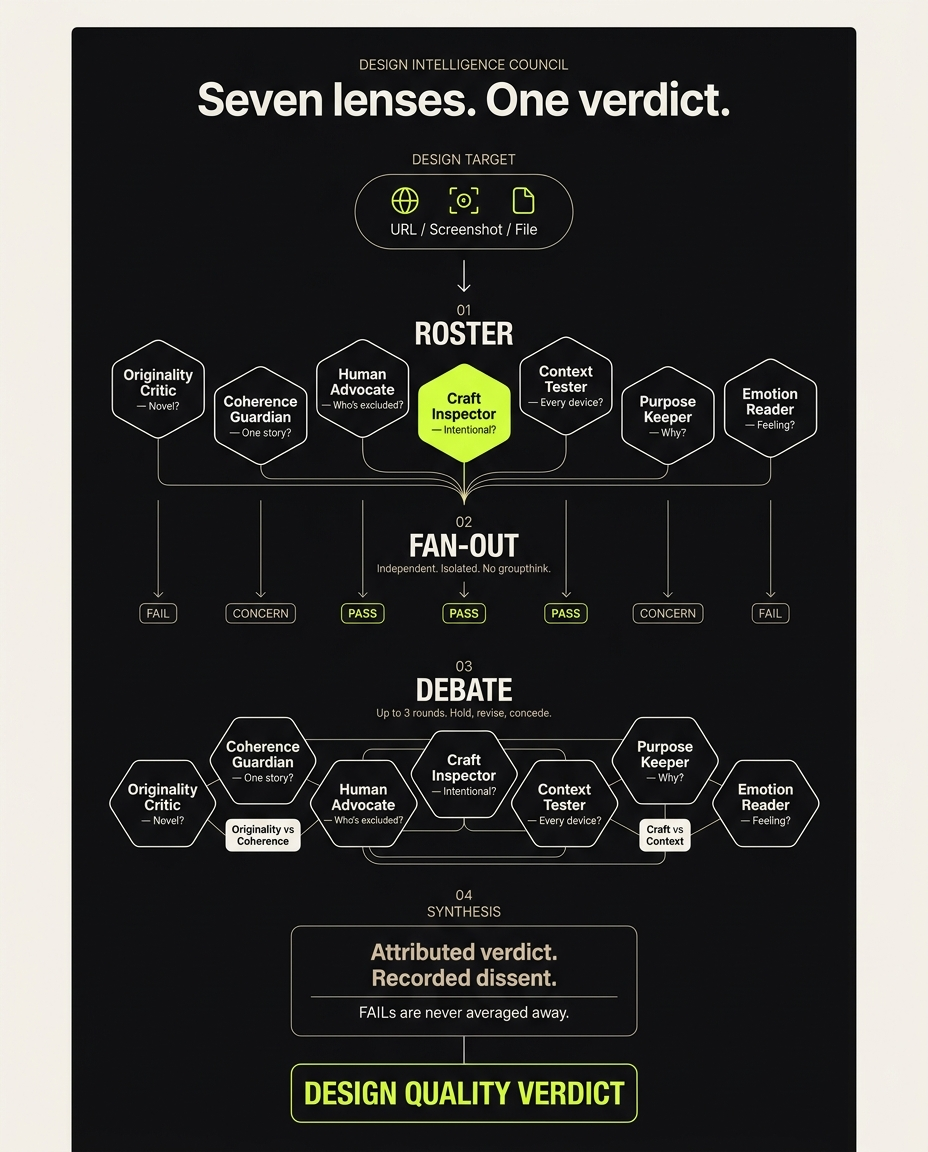
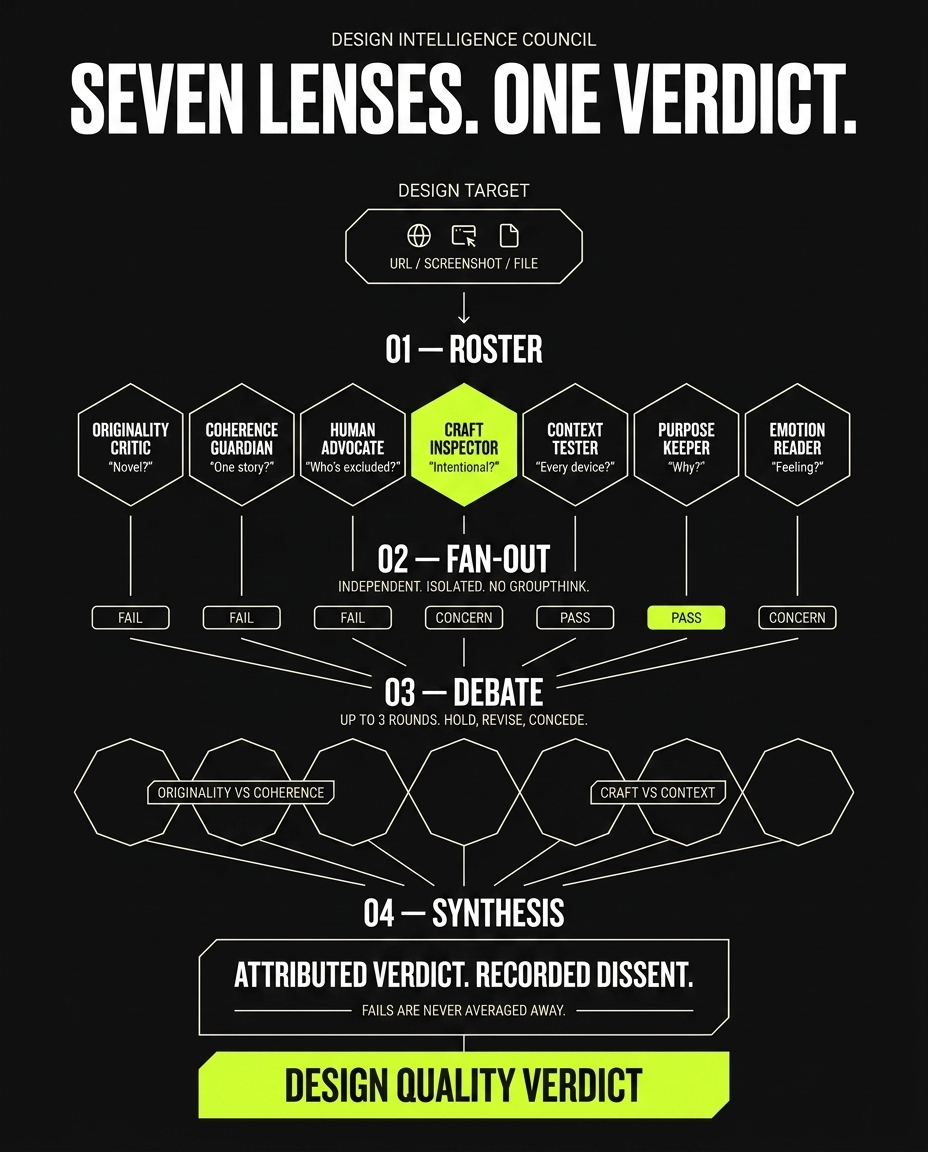
docs: add workflow infographic to README

diff --git a/README.md b/README.md
@@ -2,6 +2,8 @@
 
 A multi-perspective design evaluation system with 7 orthogonal lenses that independently evaluate designs, debate to consensus, and produce synthesized verdicts with recorded dissent. Built on the proven `/council` pattern from [amplifier-bundle-skills](https://github.com/microsoft/amplifier-bundle-skills).
 
+![Design Council Workflow](docs/design-council-workflow.png)
+
 ## The Seven Lenses
 
 | Lens | Load-Bearing Question |